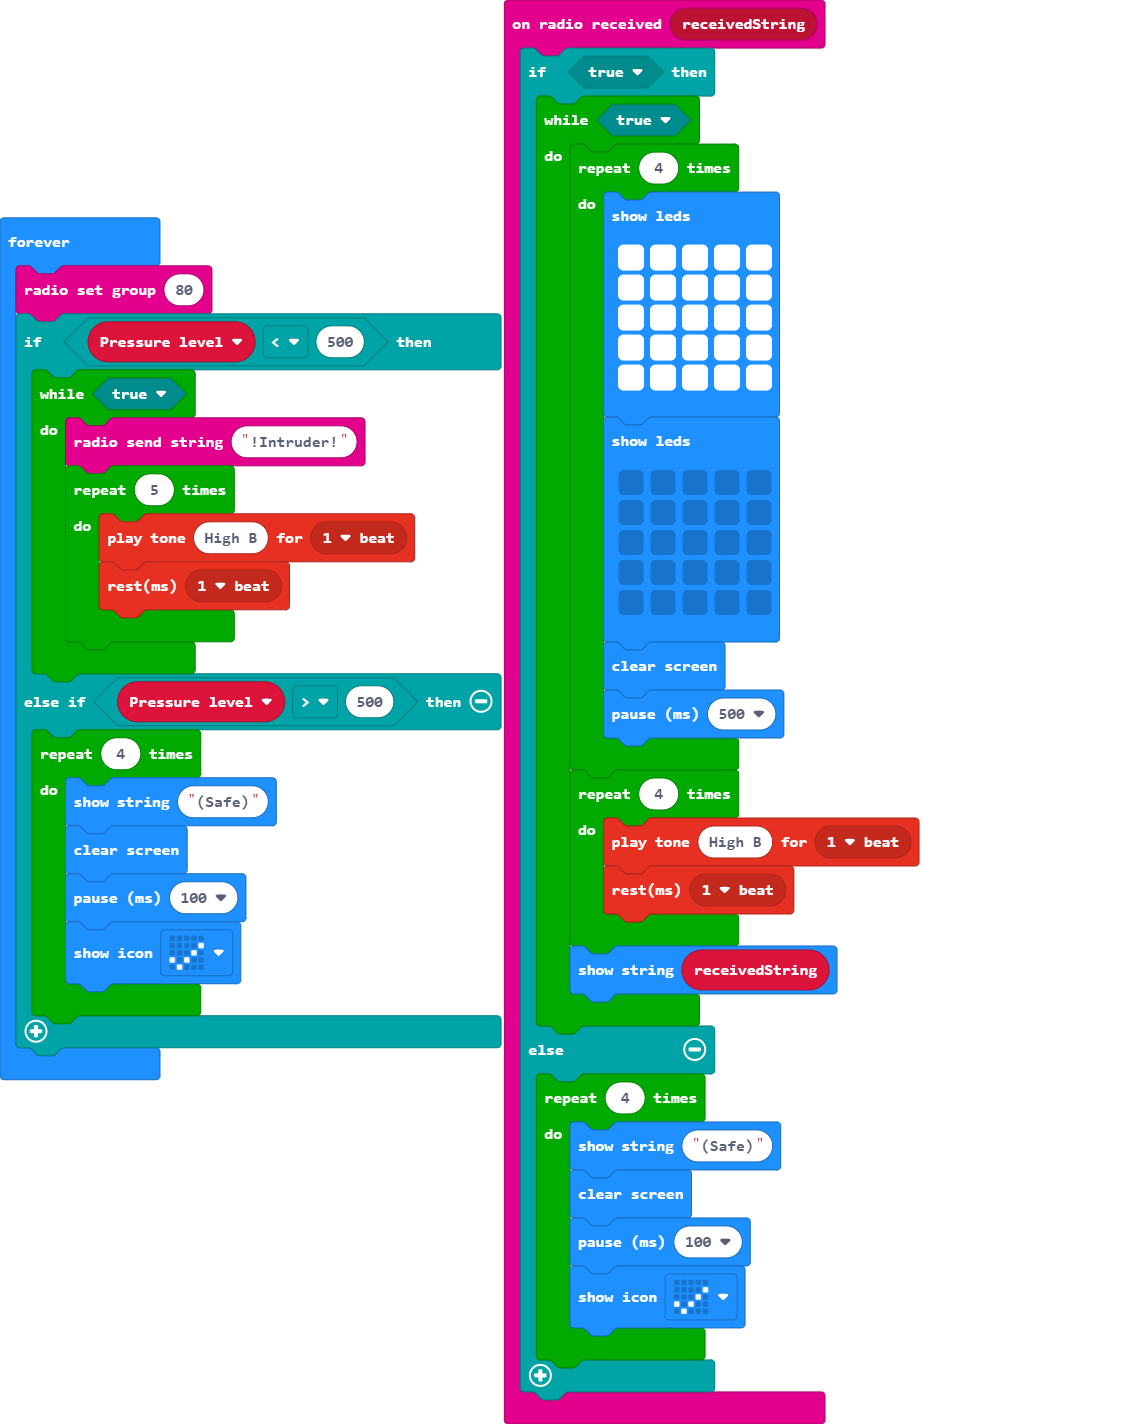
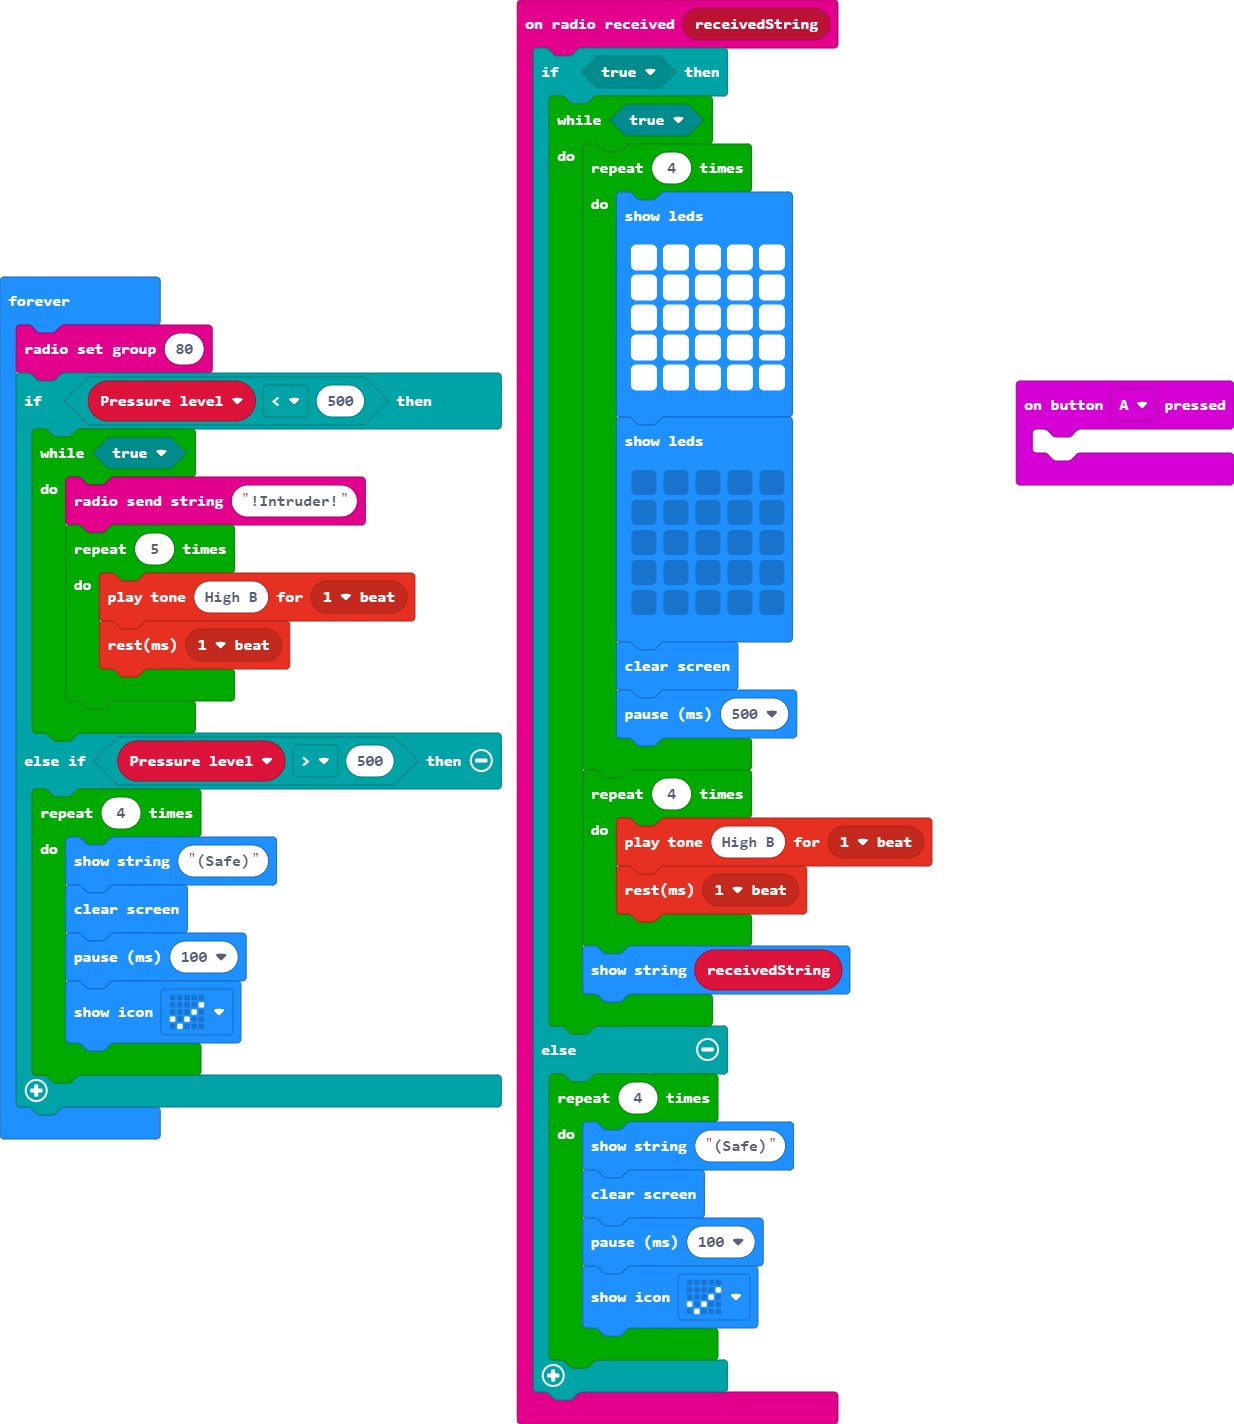
Update pxt.json, main.blocks, main.ts, main.py

diff --git a/main.ts b/main.ts
@@ -1,3 +1,6 @@
+input.onButtonPressed(Button.A, function () {
+	
+})
 radio.onReceivedString(function (receivedString) {
     if (true) {
         while (true) {

diff --git a/main.py b/main.py
@@ -1,0 +1,52 @@
+def on_button_pressed_a():
+    pass
+input.on_button_pressed(Button.A, on_button_pressed_a)
+
+def on_received_string(receivedString):
+    if True:
+        while True:
+            for index in range(4):
+                basic.show_leds("""
+                    # # # # #
+                                        # # # # #
+                                        # # # # #
+                                        # # # # #
+                                        # # # # #
+                """)
+                basic.show_leds("""
+                    . . . . .
+                                        . . . . .
+                                        . . . . .
+                                        . . . . .
+                                        . . . . .
+                """)
+                basic.clear_screen()
+                basic.pause(500)
+            for index2 in range(4):
+                music.play_tone(988, music.beat(BeatFraction.WHOLE))
+                music.rest(music.beat(BeatFraction.WHOLE))
+            basic.show_string(receivedString)
+    else:
+        for index3 in range(4):
+            basic.show_string("(Safe)")
+            basic.clear_screen()
+            basic.pause(100)
+            basic.show_icon(IconNames.YES)
+radio.on_received_string(on_received_string)
+
+def on_forever():
+    Pressure_level = 0
+    radio.set_group(80)
+    if Pressure_level < 500:
+        while True:
+            radio.send_string("!Intruder!")
+            for index4 in range(5):
+                music.play_tone(988, music.beat(BeatFraction.WHOLE))
+                music.rest(music.beat(BeatFraction.WHOLE))
+    elif Pressure_level > 500:
+        for index5 in range(4):
+            basic.show_string("(Safe)")
+            basic.clear_screen()
+            basic.pause(100)
+            basic.show_icon(IconNames.YES)
+basic.forever(on_forever)
